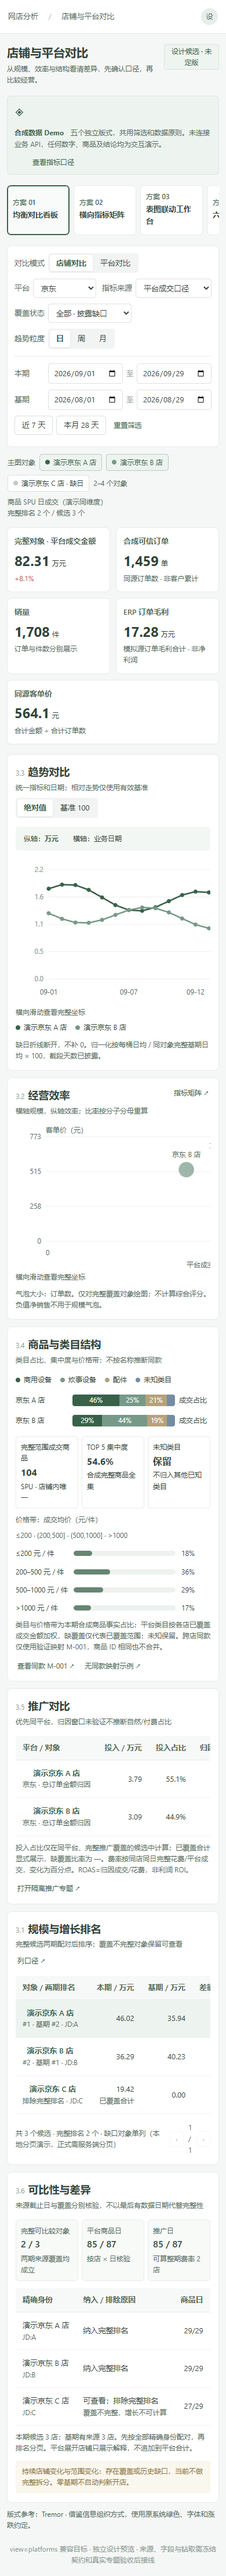
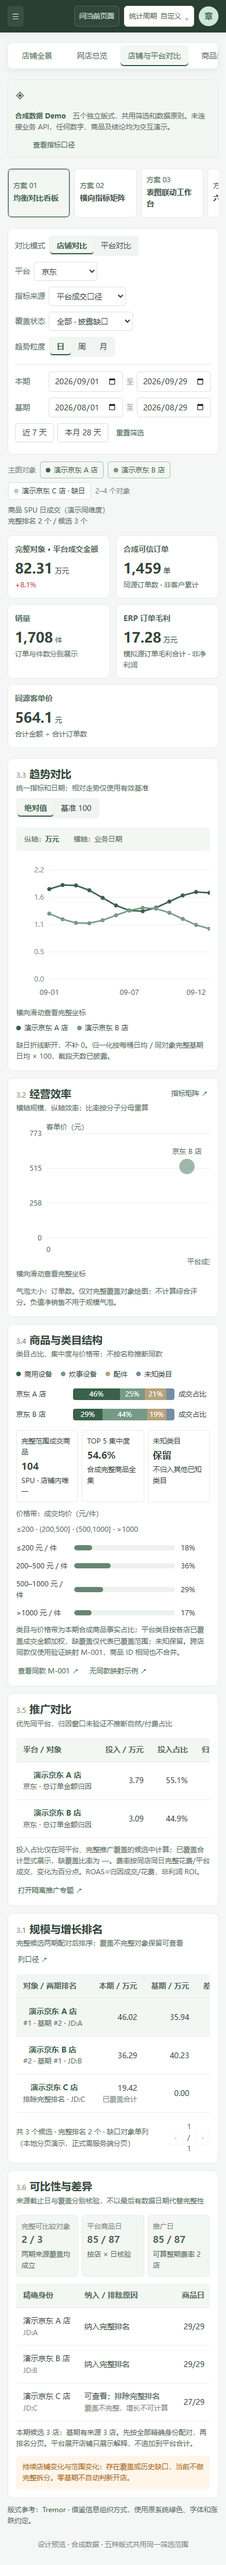
style(netshop): align comparison demos with unified system navigation and tokens

diff --git a/app/netshop/comparison/demo/system-frame.css b/app/netshop/comparison/demo/system-frame.css
@@ -1,0 +1,82 @@
+/* Demo adapter to the repository's approved typography/tokens and top-navigation shell.
+   It is local to comparison/demo and is never imported by the production page. */
+:root {
+  --brand:var(--color-brand);
+  --nav:var(--color-bg-inverse);
+  --bg:var(--color-bg-app);
+  --text:var(--color-text-primary);
+  --muted:var(--color-text-secondary);
+  --border:var(--color-border-default);
+  --red:var(--color-metric-up);
+  --green:var(--color-metric-down);
+  --amber:var(--color-warning);
+  --blue:var(--color-info);
+  --purple:var(--color-purple);
+  --demo-masthead-height:60px;
+  font-family:Inter,"SF Pro Display","PingFang SC","Microsoft YaHei",system-ui,sans-serif;
+  font-size:var(--font-size-body);
+  line-height:var(--line-height-body);
+}
+body,button,input,select,textarea { font-family:inherit; }
+body { color:var(--color-text-primary); background:var(--color-bg-app); }
+.app-body { margin-left:0; }
+main { max-width:none; padding:24px 30px 34px; }
+h1 { font-size:var(--font-size-page-title); line-height:var(--line-height-tight); }
+h2 { font-size:var(--font-size-section); line-height:var(--line-height-tight); }
+h3 { font-size:var(--font-size-card-title); line-height:var(--line-height-tight); }
+small,.small,.plain-note,.card-head p,.demo-notice,.page-footer { font-size:var(--font-size-caption); }
+label,.field-label,th,td,.segment button,.outline-button,.primary-button,.kpi-label { font-size:var(--font-size-label); }
+th,td { line-height:var(--line-height-body); }
+.kpi-value,.mini-kpis strong { font-size:var(--font-size-kpi); line-height:var(--line-height-tight); }
+.card,.kpi-card,.filter-card { background:var(--color-bg-surface); border-color:var(--color-border-default); border-radius:var(--radius-md); }
+.filter-card { scroll-margin-top:calc(var(--demo-masthead-height) + 85px); }
+.primary-button { background:var(--color-brand); border-color:var(--color-brand); box-shadow:none; }
+.primary-button:hover { background:var(--color-brand-hover); }
+.segment button.active,.design-choice.active,.object-chip.selected,.audit-tabs button.active,
+.chapter-nav button.active { color:var(--color-brand); background:var(--color-brand-soft); border-color:var(--color-brand-border); }
+.segment button.active { box-shadow:inset 0 -2px var(--color-brand); }
+.pill { color:var(--color-brand); background:var(--color-brand-soft); }
+.pill.partial { color:var(--color-warning); background:var(--color-warning-soft); }
+.pill.unavailable { color:var(--color-text-muted); background:var(--color-bg-subtle); }
+.demo-notice,.summary-strip,.coverage-item,.selected-banner,.chapter-summary {
+  color:var(--color-text-secondary); background:var(--color-brand-soft); border-color:var(--color-border-default);
+}
+.warning-note { color:var(--color-warning); background:var(--color-warning-soft); }
+.muted,.page-footer,.section-no { color:var(--color-text-muted); }
+thead th,.selected-row td,.heat-cell,.matrix-group td { background:var(--color-brand-soft); }
+.system-masthead { position:sticky; top:0; z-index:40; display:flex; align-items:center; gap:16px; padding:10px 18px; min-width:0; background:var(--color-bg-inverse); box-shadow:0 3px 12px #1f2d4410; }
+.primary-modules { display:flex; align-items:center; flex:1 1 0; min-width:0; gap:2px; overflow-x:auto; overflow-y:hidden; padding:3px 0; scrollbar-width:thin; scrollbar-color:var(--color-brand-border) transparent; }
+.primary-modules button { flex:0 0 auto; position:relative; display:flex; align-items:center; gap:6px; min-height:40px; padding:6px; border:0; border-radius:9px; background:transparent; color:var(--color-brand-tint); font-size:var(--font-size-label); font-weight:700; white-space:nowrap; }
+.primary-modules button i { width:24px; height:24px; display:grid; place-items:center; flex:0 0 24px; color:var(--color-brand-tint); background:#ffffff0f; border-radius:7px; font-size:var(--font-size-caption); font-style:normal; }
+.primary-modules button.active { color:var(--color-text-inverse); background:#ffffff14; }
+.primary-modules button.active i { color:var(--color-brand-hover); background:var(--color-brand-tint); }
+.primary-modules button.active::after { content:""; position:absolute; bottom:0; left:8px; right:8px; height:2px; background:var(--color-brand-tint); }
+.primary-modules button:hover { background:#ffffff14; color:var(--color-text-inverse); }
+.system-tools { display:flex; align-items:center; flex:0 0 auto; gap:8px; }
+.system-context-button { min-height:36px; padding:0 12px; border:1px solid #ffffff25; border-radius:6px; background:#ffffff0c; color:var(--color-brand-tint); font-size:var(--font-size-label); white-space:nowrap; }
+.system-period { display:flex; align-items:center; gap:9px; min-height:36px; padding:0 11px; border:1px solid var(--color-border-default); border-radius:6px; background:var(--color-bg-surface); color:var(--color-text-secondary); font-size:var(--font-size-label); white-space:nowrap; }
+.system-period strong { font-weight:500; }
+.system-account { display:grid; place-items:center; width:34px; height:34px; padding:0; border:0; border-radius:50%; color:var(--color-brand-hover); background:var(--color-brand-tint); font-size:var(--font-size-body); }
+.system-account-popover { position:fixed; inset:calc(var(--demo-masthead-height) + 6px) 18px auto auto; margin:0; padding:15px 18px; border:1px solid var(--color-border-default); border-radius:var(--radius-md); color:var(--color-text-secondary); background:var(--color-bg-surface); box-shadow:var(--shadow-overlay); font-size:var(--font-size-label); }
+.system-subnav { position:sticky; top:var(--demo-masthead-height); z-index:25; display:flex; align-items:center; gap:3px; width:max-content; max-width:calc(100% - 60px); margin:17px 30px 0; padding:4px; overflow-x:auto; border:1px solid var(--color-border-default); border-radius:var(--radius-md); background:var(--color-bg-surface); box-shadow:0 4px 10px #1f2d4410; }
+.system-subnav button { flex:0 0 auto; min-width:92px; height:36px; padding:0 13px; border:0; border-radius:6px; background:transparent; color:var(--color-text-secondary); font-size:var(--font-size-label); white-space:nowrap; }
+.system-subnav button.active { color:var(--color-brand); background:var(--color-brand-soft); box-shadow:inset 0 -2px var(--color-brand); }
+.system-subnav button:hover:not(:disabled) { color:var(--color-brand); background:var(--color-brand-soft); }
+.system-menu-button { display:none; }
+.system-visually-hidden { position:absolute; width:1px; height:1px; padding:0; margin:-1px; overflow:hidden; clip-path:inset(50%); white-space:nowrap; }
+.drawer-backdrop { z-index:80; }
+.drawer { z-index:81; }
+#toast { z-index:90; }
+@media(max-width:860px) {
+  .system-masthead { padding:10px 13px; gap:9px; }
+  .system-menu-button { display:flex; align-items:center; flex:0 0 auto; gap:6px; min-height:36px; padding:0 8px; border:0; border-radius:6px; background:#ffffff14; color:var(--color-brand-tint); font-size:var(--font-size-label); }
+  .system-menu-button span { display:none; }
+  .primary-modules { display:none; }
+  .system-masthead.menu-open .primary-modules { display:grid; grid-template-columns:repeat(2,minmax(0,1fr)); position:absolute; top:100%; left:0; right:0; max-height:75vh; overflow:auto; padding:16px; gap:8px; background:var(--color-bg-inverse); border-radius:0 0 16px 16px; }
+  .primary-modules button { min-height:44px; }
+  .system-tools { flex:1 1 auto; justify-content:flex-end; flex-wrap:wrap; min-width:0; }
+  .system-context-button { padding:0 8px; font-size:var(--font-size-caption); }
+  .system-period { padding:0 8px; gap:6px; font-size:var(--font-size-caption); }
+  .system-subnav { max-width:calc(100% - 26px); margin:17px 13px 0; }
+  main { padding:17px 13px 26px; }
+}

diff --git a/app/netshop/comparison/demo/index.html b/app/netshop/comparison/demo/index.html
@@ -5,30 +5,53 @@
   <meta name="viewport" content="width=device-width, initial-scale=1">
   <meta name="color-scheme" content="light">
   <title>店铺与平台对比 · 五版设计 Demo</title>
+  <link rel="stylesheet" href="./system-tokens.css">
   <link rel="stylesheet" href="./demo.css">
+  <link rel="stylesheet" href="./system-frame.css">
 </head>
 <body>
-  <aside class="app-nav" aria-label="应用导航">
-    <div class="brand"><span class="brand-icon">运</span><strong>运营管理系统</strong></div>
-    <div class="nav-label">业务工作台</div>
-    <div class="nav-item">◫ <span>经营总览</span></div>
-    <div class="nav-item nav-parent">▦ <span>网店分析</span><span>⌄</span></div>
-    <div class="nav-child">网店总览</div><div class="nav-child">店铺全景</div>
-    <div class="nav-child current" aria-current="page">店铺与平台对比</div>
-    <div class="nav-child">商品表现</div><div class="nav-child">推广分析</div>
-    <div class="nav-item">▤ <span>商品经营</span></div><div class="nav-item">▧ <span>库存管理</span></div>
-    <div class="nav-bottom">设计评审工作区<br><span>仅合成数据 · 独立预览</span></div>
-  </aside>
+  <header class="system-masthead" data-testid="system-masthead">
+    <button class="system-menu-button" type="button" data-action="system-menu" aria-label="展开主导航" aria-expanded="false">☰ <span>网店分析</span></button>
+    <nav class="primary-modules" aria-label="系统主导航">
+      <button type="button" data-action="preview-navigation"><i>AI</i>AI 对话</button>
+      <button type="button" data-action="preview-navigation"><i>务</i>运营事务</button>
+      <button type="button" data-action="preview-navigation"><i>流</i>自动化中心</button>
+      <button type="button" data-action="preview-navigation"><i>BI</i>BI 看板</button>
+      <button type="button" class="active" aria-current="page"><i>店</i>网店分析</button>
+      <button type="button" data-action="preview-navigation"><i>市</i>市场分析</button>
+      <button type="button" data-action="preview-navigation"><i>服</i>客服分析</button>
+      <button type="button" data-action="preview-navigation"><i>销</i>销售分析</button>
+      <button type="button" data-action="preview-navigation"><i>库</i>库存管理</button>
+      <button type="button" data-action="preview-navigation"><i>品</i>商品经营</button>
+      <button type="button" data-action="preview-navigation"><i>入</i>数据导入</button>
+      <button type="button" data-action="preview-navigation"><i>设</i>系统设置</button>
+      <button type="button" data-action="preview-navigation"><i>AI</i>AI 助理</button>
+    </nav>
+    <div class="system-tools" role="group" aria-label="页面工具">
+      <button class="system-context-button" type="button" data-action="definitions">问当前页面</button>
+      <button class="system-period" type="button" data-action="show-period" aria-label="编辑本期和比较区间"><span>统计周期</span><strong>自定义</strong><span aria-hidden="true">⌄</span></button>
+      <button class="system-account" type="button" popovertarget="demo-account" aria-label="账号操作">章</button>
+    </div>
+  </header>
+  <div id="demo-account" class="system-account-popover" popover>设计预览账号 · 仅查询</div>
   <div class="app-body">
-    <header class="app-top"><span>网店分析 <b>/</b> 店铺与平台对比</span><span class="user-dot">设</span></header>
+    <nav class="system-subnav" aria-label="网店分析栏目" data-testid="system-subnav">
+      <button type="button" data-action="preview-navigation">店铺全景</button>
+      <button type="button" data-action="preview-navigation">网店总览</button>
+      <button type="button" class="active" aria-current="page">店铺与平台对比</button>
+      <button type="button" data-action="preview-navigation">商品表现</button>
+      <button type="button" data-action="preview-navigation">推广分析</button>
+      <button type="button" disabled>企业购分析</button>
+      <button type="button" disabled>客服分析</button>
+    </nav>
     <main>
-      <div class="page-heading"><div><h1>店铺与平台对比</h1><p>从规模、效率与结构看清差异，先确认口径，再比较经营。</p></div><span class="pill design-only">设计候选 · 未定版</span></div>
+      <h1 class="system-visually-hidden">店铺与平台对比 · 五版设计预览</h1>
       <div class="demo-notice"><span class="notice-symbol">◈</span><div><strong>合成数据 Demo</strong>　五个独立版式，共用筛选和数据原则。未连接业务 API，任何数字、商品及结论均为交互演示。</div><button class="text-button" data-action="definitions">查看指标口径</button></div>
       <nav id="design-picker" class="design-picker" aria-label="五个设计版式"></nav>
       <section id="filters" class="filter-card" aria-label="对比筛选"></section>
       <div id="selection-bar"></div>
       <div id="content" aria-live="polite"></div>
-      <footer class="page-footer">view=platforms 兼容目标 · 独立设计预览 · 来源、字段与钻取需冻结契约和真实专题验收后接线</footer>
+      <footer class="page-footer">设计预览 · 合成数据 · 五种版式共用同一筛选范围</footer>
     </main>
   </div>
   <div id="drawer-root"></div>

diff --git a/app/netshop/comparison/demo/system-tokens.css b/app/netshop/comparison/demo/system-tokens.css
@@ -1,0 +1,132 @@
+:root {
+  color-scheme: light;
+
+  /* Brand */
+  --color-brand: #396149;
+  --color-brand-hover: #293f32;
+  --color-brand-active: #24382c;
+  --color-brand-soft: #f3f7f4;
+  --color-brand-tint: #cce8d9;
+  --color-brand-border: #abc4b4;
+
+  /* Surfaces */
+  --color-bg-app: #f5f7f6;
+  --color-bg-surface: #ffffff;
+  --color-bg-subtle: #f3f7f4;
+  --color-surface-subtle: var(--color-bg-subtle);
+  --color-bg-elevated: #ffffff;
+  --color-bg-inverse: #293f32;
+
+  /* Text */
+  --color-text-primary: #33453a;
+  --color-text-secondary: #526959;
+  --color-text-muted: #7b8780;
+  --color-text-inverse: #f3f7f4;
+  --color-text-link: #396149;
+
+  /* Borders and focus */
+  --color-border-default: #e7ebe9;
+  --color-border-strong: #c9d6ce;
+  --color-focus-ring: rgba(103, 157, 131, 0.35);
+
+  /* System feedback */
+  --color-success: #16825d;
+  --color-success-soft: #eaf8f3;
+  --color-warning: #a96518;
+  --color-warning-soft: #fff5e9;
+  --color-danger: #c83e4d;
+  --color-danger-soft: #fff0f1;
+  --color-info: #315bc5;
+  --color-info-soft: #edf3ff;
+
+  /* Business movement: A-share convention, up red and down green. */
+  --color-metric-up: #c83e4d;
+  --color-metric-down: #16825d;
+  --color-metric-neutral: #6f7d91;
+
+  /* Supporting palette */
+  --color-purple: #8167d9;
+  --color-purple-soft: #f2effd;
+
+  /* Spacing and size */
+  --space-1: 4px;
+  --space-2: 8px;
+  --space-3: 12px;
+  --space-4: 16px;
+  --space-5: 20px;
+  --space-6: 24px;
+  --space-7: 30px;
+  --space-8: 40px;
+  --radius-sm: 6px;
+  --radius-md: 9px;
+  --radius-lg: 12px;
+  --radius-pill: 999px;
+  --control-height-sm: 32px;
+  --control-height-md: 38px;
+  --control-height-lg: 44px;
+  --font-size-caption: 12px;
+  --font-size-body: 14px;
+  --font-size-heading: 18px;
+  /* Unified typography scale: keep user-facing Chinese text readable and predictable. */
+  --font-size-micro: 11px;
+  --font-size-label: 13px;
+  --font-size-card-title: 16px;
+  --font-size-section: 18px;
+  --font-size-page-title: 20px;
+  --font-size-display: 24px;
+  --font-size-kpi: 24px;
+  --line-height-tight: 1.3;
+  --line-height-body: 1.6;
+  --line-height-readable: 1.75;
+
+  /* Elevation and layout */
+  --shadow-sm: 0 3px 10px rgba(34, 45, 65, 0.12);
+  --shadow-md: 0 8px 24px rgba(31, 45, 68, 0.08);
+  --shadow-overlay: 0 20px 50px rgba(31, 45, 68, 0.2);
+  --app-sidebar-width: 244px;
+  --app-sidebar-collapsed-width: 80px;
+  --app-header-height: 82px;
+  --app-header-height-mobile: 67px;
+  --app-sticky-offset: var(--app-header-height);
+  --z-sticky: 25;
+  --z-sidebar: 40;
+  --z-overlay: 80;
+  --z-tooltip: 90;
+
+  /* Legacy aliases: retire only after every business module has migrated. */
+  --bg: var(--color-bg-app);
+  --surface: var(--color-bg-surface);
+  --surface-soft: var(--color-bg-subtle);
+  --text: var(--color-text-primary);
+  --muted: var(--color-text-muted);
+  --line: var(--color-border-default);
+  --nav: var(--color-bg-inverse);
+  --nav-soft: #396149;
+  --blue: var(--color-brand);
+  --blue-dark: var(--color-brand-hover);
+  --blue-soft: var(--color-brand-soft);
+  --green: #27a978;
+  --green-soft: #eaf8f3;
+  --orange: #e99436;
+  --orange-soft: #fff5e9;
+  --purple: var(--color-purple);
+  --purple-soft: var(--color-purple-soft);
+  --red: #e45e67;
+  --red-soft: #fff0f1;
+  --shadow: 0 8px 24px rgba(31, 45, 68, 0.05);
+  --sidebar-width: var(--app-sidebar-width);
+
+  /* Existing late stylesheet sections already consume these names. */
+  --card: var(--color-bg-surface);
+  --ink: var(--color-text-primary);
+  --ink-2: var(--color-text-secondary);
+  --accent: var(--color-brand);
+  --accent-soft: var(--color-brand-soft);
+  --code-bg: #111827;
+}
+
+@media (max-width: 860px) {
+  :root {
+    --app-sticky-offset: var(--app-header-height-mobile);
+  }
+}

diff --git a/app/netshop/comparison/demo/demo.js b/app/netshop/comparison/demo/demo.js
@@ -333,7 +333,10 @@
     const button=event.target.closest('[data-action]');if(!button||button.disabled)return;
     const action=button.dataset.action,id=button.dataset.id;
     try{
-      if(action==='design')setState({design:+id});
+      if(action==='system-menu'){const head=document.querySelector('.system-masthead');head.classList.toggle('menu-open');button.setAttribute('aria-expanded',String(head.classList.contains('menu-open')));}
+      else if(action==='preview-navigation')toast('当前为店铺与平台对比设计预览，其他栏目等待正式接线。');
+      else if(action==='show-period'){$('filters').scrollIntoView({block:'start',behavior:'smooth'});$('current-start').focus({preventScroll:true});}
+      else if(action==='design')setState({design:+id});
       else if(action==='mode')setState({mode:id,platform:id==='platforms'?'all':state.platform});
       else if(action==='grain')setState({grain:id});
       else if(action==='normalize')setState({normalized:id==='true'});
@@ -361,5 +364,9 @@
   document.addEventListener('pointerover',event=>{const point=event.target.closest('[data-tip]');if(!point)return;const wrap=point.closest('.chart-wrap');wrap.querySelector('.chart-tooltip')?.remove();const tooltip=document.createElement('div');tooltip.className='chart-tooltip';const parts=point.dataset.tip.split('|');tooltip.innerHTML=`<strong>${esc(parts[0])}</strong>${esc(parts[1])}<br>${esc(parts[2])}`;const box=wrap.getBoundingClientRect(),pt=point.getBoundingClientRect();tooltip.style.left=Math.min(Math.max(0,pt.left-box.left),Math.max(0,box.width-220))+'px';tooltip.style.top='15px';wrap.append(tooltip);});
   document.addEventListener('pointerout',event=>{if(event.target.closest('[data-tip]'))event.target.closest('.chart-wrap')?.querySelector('.chart-tooltip')?.remove();});
   window.comparisonDemo=Object.freeze({setState,snapshot,openDetail,closeDetail,designs:DESIGNS.map(({id,name,title})=>({id,name,title})),fixtures:SHOPS.map(({id,platform,name})=>({id,platform,name})),reset:()=>setState({...DEFAULT,selectedIds:[...DEFAULT.selectedIds],expanded:[]})});
+  const masthead=document.querySelector('.system-masthead');
+  const syncShell=()=>document.documentElement.style.setProperty('--demo-masthead-height',masthead.getBoundingClientRect().height+'px');
+  new ResizeObserver(syncShell).observe(masthead);
+  syncShell();
   render();
 })();
